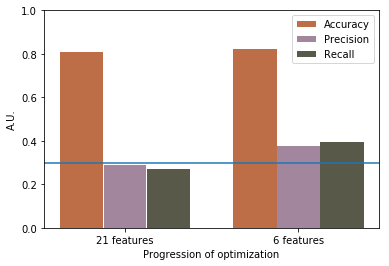
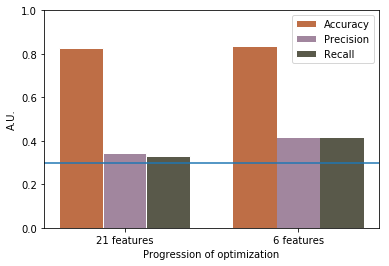
docs: Update the figure

diff --git a/summary.md b/summary.md
@@ -123,9 +123,9 @@ using 21 features. The result is formatted in the table below.
 
 |   |Decision Tree|Logistic Regression|
 |---|---|---|
-|Accuracy|0.81|0.78|
-|Precision|0.29|0.17|
-|Recall|0.27|0.17|
+|Accuracy|0.82|0.79|
+|Precision|0.34|0.21|
+|Recall|0.33|0.19|
 
 Since the label is a binary variable, intuitively I would assume logistic
 regressions shall give a better performance even without tuning the parameters.
